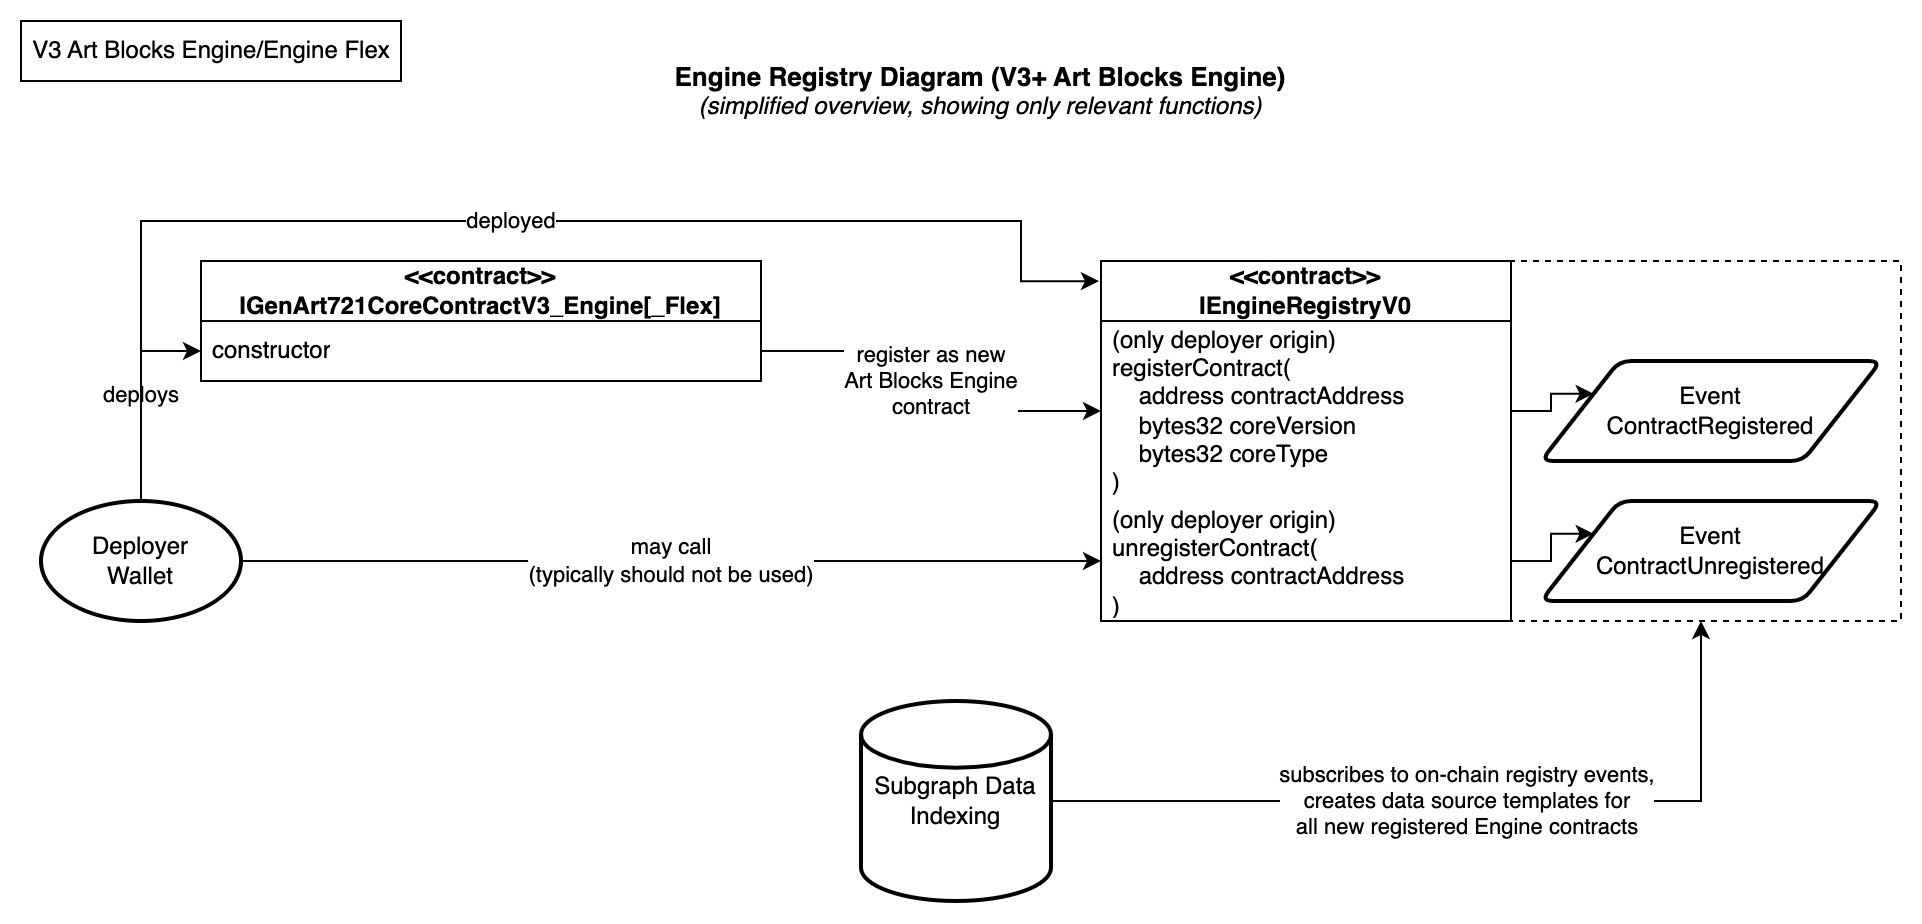
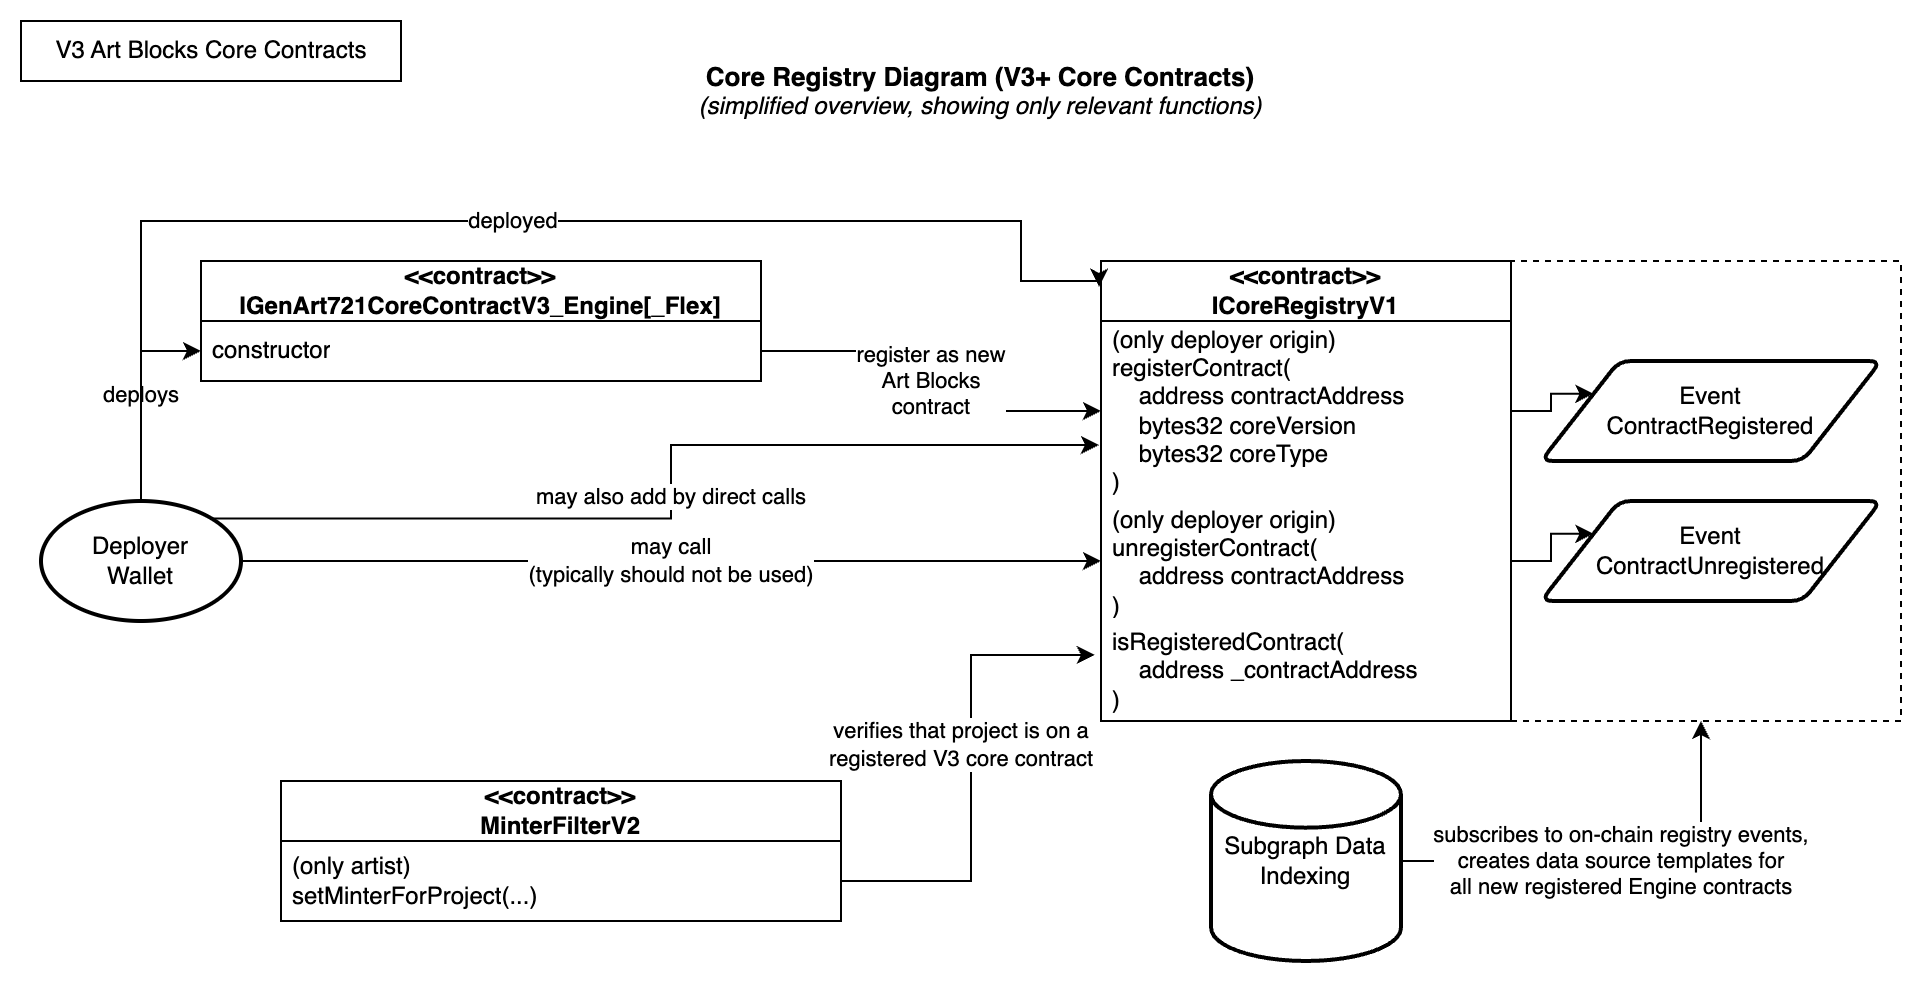
update documentation with new shared minter suite updates

diff --git a/packages/contracts/MINTER_SUITE.md b/packages/contracts/MINTER_SUITE.md
@@ -2,22 +2,26 @@
 
 ## Overview
 
-The Art Blocks Minter Suite is a collection of smart contracts that enable Artists (using V3 core contracts) to distribute tokens from their projects to collectors.
+The Art Blocks Minter Suite is a collection of smart contracts that enable Artists using V3 core contracts to distribute tokens from their projects to collectors.
 
 A diagram of the the Minter Suite is shown below:
 
-![minter-suite-diagram](./images/minter-suite-v1.png)
+![minter-suite-diagram](./images/minter-suite-v2.png)
+
+> note: The diagram above describes the Art Blocks Shared Minter Suite. The previous version of the non-shared minter suite is not shown.
 
 ## MinterFilter Suite Compatibility Chart
 
 The following table shows which Minters and MinterFilters are compatible with different Art Blocks and Art Blocks Engine Core contracts.
 
-| Core Contract Version                          | Minter Filter  | Recommended Minters                                                                                                                        |
-| :--------------------------------------------- | :------------- | :----------------------------------------------------------------------------------------------------------------------------------------- |
-| V1, V1_PRTNR                                   | MinterFilterV0 | MinterSetPriceV1<br>MinterSetPriceERC20V1<br>MinterDAExpV1<br>MinterDALinV1<br>MinterMerkleV0<br>MinterHolderV0                            |
-| V2 (PBAB)                                      | -              | (various PBAB minters)                                                                                                                     |
-| V3, V3_Explorations, V3_Engine, V3_Engine_Flex | MinterFilterV1 | MinterSetPriceV4<br>MinterSetPriceERC20V4<br>MinterMerkleV5<br>MinterHolderV4<br>MinterDALinV4<br>MinterDAExpV4<br>MinterDAExpSettlementV2 |
-| V3_Engine, V3_Engine_Flex                      | MinterFilterV1 | MinterPolyptychV0                                                                                                                          |
+| Core Contract Version                          | Minter Filter  | Recommended Minters                                                                                                                                        |
+| :--------------------------------------------- | :------------- | :--------------------------------------------------------------------------------------------------------------------------------------------------------- |
+| V1, V1_PRTNR                                   | MinterFilterV0 | MinterSetPriceV1<br>MinterSetPriceERC20V1<br>MinterDAExpV1<br>MinterDALinV1<br>MinterMerkleV0<br>MinterHolderV0                                            |
+| V2 (PBAB)                                      | -              | (various PBAB minters)                                                                                                                                     |
+| V3, V3_Explorations, V3_Engine, V3_Engine_Flex | MinterFilterV2 | MinterSetPriceV5<br>MinterSetPriceERC20V5<br>MinterSetPriceMerkleV5<br>MinterSetPriceHolderV4<br>MinterDALinV5<br>MinterDAExpV5<br>MinterDAExpSettlementV3 |
+| V3_Engine, V3_Engine_Flex                      | MinterFilterV2 | MinterSetPricePolyptychV5                                                                                                                                  |
+
+> note: MinterFilterV1 is also compatible with V3 core contracts, but it is recommended to migrate to MinterFilterV2 to enable additional functionality and indexing.
 
 ## Flagship
 
@@ -28,62 +32,40 @@ These are the smart contracts that receive funds, and split them between the art
 #### MinterSetPrice (Set Price)
 
 - V0 (deprecated): [0x1DEC9E52f1320F7Deb29cBCd7B7d67f3dF785142](https://etherscan.io/address/0x1DEC9E52f1320F7Deb29cBCd7B7d67f3dF785142#code)
-- V1: [0x934cdc04C434b8dBf3E1265F4f198D70566f7355](https://etherscan.io/address/0x934cdc04C434b8dBf3E1265F4f198D70566f7355#code)
-- V2: [0x7B7917e083CeA6d9f6a3060a7330c1072fcb4e40](https://etherscan.io/address/0x7B7917e083CeA6d9f6a3060a7330c1072fcb4e40#code)
-- V3: N/A, never used in prod.
-- V4: [0x234B25288011081817B5cC199C3754269cCb76D2](https://etherscan.io/address/0x234B25288011081817B5cC199C3754269cCb76D2#code)
+- V5: TBD
 
 #### MinterSetPriceERC20 (Set Price with ERC20)
 
 - V0 (deprecated): [0x48742D38a0809135EFd643c1150BfC13768C3907](https://etherscan.io/address/0x48742D38a0809135EFd643c1150BfC13768C3907#code)
-- V1: [0x0BbB93c5d118D1dee49e96BCAdc161403f4F8612](https://etherscan.io/address/0x0BbB93c5d118D1dee49e96BCAdc161403f4F8612#code)
-- V2: [0xe4c6EeF13649e9C4Ad8ae8A9C7fA9A7F26B4287a](https://etherscan.io/address/0xe4c6EeF13649e9C4Ad8ae8A9C7fA9A7F26B4287a#code)
-- V3: N/A, never used in prod.
-- V4: [0x9fEcd2FbC6D890fB93632DcE9b1a01c4090A7E2d](https://etherscan.io/address/0x9fEcd2FbC6D890fB93632DcE9b1a01c4090A7E2d#code)
+- V5: TBD
 
 #### MinterDALin (Linear Dutch Auction)
 
 - V0 (deprecated): [0xd219f61Bb5A3ffDeCB4362610977F1dAB3930eE2](https://etherscan.io/address/0xd219f61Bb5A3ffDeCB4362610977F1dAB3930eE2#code)
-- V1: [0x32710950B014c2D29EA24f480Dd02c7e4610663b](https://etherscan.io/address/0x32710950B014c2D29EA24f480Dd02c7e4610663b#code)
-- V2: [0xdaa6D1e224f4B9f7c4f1368C362C4333A8e385A6](https://etherscan.io/address/0xdaa6D1e224f4B9f7c4f1368C362C4333A8e385A6#code)
-- V3: N/A, never used in prod.
-- V4: [0x419501DD208BFf237e3E32C40D074065e12DfF4d](https://etherscan.io/address/0x419501DD208BFf237e3E32C40D074065e12DfF4d#code)
+- V5: TBD
 
 #### MinterDAExp (Exponential Decay Dutch Auction)
 
 - V0 (deprecated): [0xFc74fD0f2c7EaD04f1E5E9fd82Aef55620710D7C](https://etherscan.io/address/0xFc74fD0f2c7EaD04f1E5E9fd82Aef55620710D7C#code)
-- V1: [0xD94C7060808f3c876824E57e685702f3834D2e13](https://etherscan.io/address/0xD94C7060808f3c876824E57e685702f3834D2e13#code)
-- V2: [0x706d6C6ef700a3c1C3a727f0c46492492E0A72b5](https://etherscan.io/address/0x706d6C6ef700a3c1C3a727f0c46492492E0A72b5#code)
-- V3: N/A, never used in prod.
-- V4: [0x47e2df2723238f913741Cc6b1963e76fdfD19B94](https://etherscan.io/address/0x47e2df2723238f913741Cc6b1963e76fdfD19B94#code)
+- V5: TBD
 
 #### MinterDAExpSettlement (Expotential Decay Last Price Dutch Auction)
 
-- V0: N/A, never used in prod.
-- V1: [0xfdE58c821D1c226b4a45c22904de20b114EDe7E7](https://etherscan.io/address/0xfdE58c821D1c226b4a45c22904de20b114EDe7E7#code)
+- V2: TBD
 
 #### MinterMerkle (Address Allowlist)
 
-- V0: N/A, never used in prod.
-- V1: [0xae5A48D22Cd069c4d72dDe204A7fB4B302e614af](https://etherscan.io/address/0xae5A48D22Cd069c4d72dDe204A7fB4B302e614af)
-- V2: [0x6Ff3c104Ca9b4860D27079aFfF18701c4A532A4d](https://etherscan.io/address/0x6Ff3c104Ca9b4860D27079aFfF18701c4A532A4d)
-- V3: N/A, never used in prod.
-- V4: N/A, never used in prod.
-- V5: [0xB8Bd1D2836C466DB149f665F777928bEE267304d](https://etherscan.io/address/0xB8Bd1D2836C466DB149f665F777928bEE267304d#code)
+- V5: TBD
 
 #### Minter Holder (Token Holder)
 
-- V0: N/A, never used in prod.
-- V1: [0xa198E22C32879f4214a37eB3051525bD9aff9145](https://etherscan.io/address/0xa198E22C32879f4214a37eB3051525bD9aff9145)
-- V2: N/A, never used in prod.
-- V3: N/A, never used in prod.
-- V4: [0xCCFF562017bdAAa064184b3Eb9bd892d8Acce7d6](https://etherscan.io/address/0xCCFF562017bdAAa064184b3Eb9bd892d8Acce7d6#code)
+- V5: TBD
 
 ### Other Flagship Minter Contracts
 
 MinterFilterV0 for flagship V1 core: [0x4aafCE293b9B0faD169c78049A81e400f518E199](https://etherscan.io/address/0x4aafCE293b9B0faD169c78049A81e400f518E199#code).
 
-MinterFilterV1 for flagship V3 core: [0x092B8F64e713d66b38522978BCf4649db14b931E](https://etherscan.io/address/0x092B8F64e713d66b38522978BCf4649db14b931E).
+MinterFilterV1 for flagship V3 core: TBD
 
 Legacy minting contract for flagship V0 core: [0x47e312d99c09ce61a866c83cbbbbed5a4b9d33e7](https://etherscan.io/address/0x47e312d99c09ce61a866c83cbbbbed5a4b9d33e7).
 
@@ -91,4 +73,4 @@ Legacy minting contract for flagship V0 core: [0x47e312d99c09ce61a866c83cbbbbed5
 
 ### Engine Minter Contracts
 
-For deployed Art Blocks Engine minter contracts, see the minters included in each partner's deployment details in the `/deployments/engine/[V2|V3]/<engine-partner>/` directories.
+We encourage our Engine partners with V3 core contracts to migrate to use the shared minter suite, which uses the same minters as the Art Blocks flagship contract. However, some partners may choose to continue to use their existing minters or custom minters outside of the shared minter suite. In that case, see the minters included in each partner's deployment details in the `/deployments/engine/[V2|V3]/<engine-partner>/` directories.

diff --git a/packages/contracts/README.md b/packages/contracts/README.md
@@ -74,14 +74,20 @@ erDiagram
     MINTERFILTER ||--o{ MINTER_1 : uses
     MINTERFILTER ||--o{ MINTER_2 : uses
     MINTERFILTER ||--o{ MINTER_N : uses
-    MINTER_1 ||--|| I_FILTERED_MINTER : implements
-    MINTER_2 ||--|| I_FILTERED_MINTER : implements
-    MINTER_N ||--|| I_FILTERED_MINTER : implements
+    MINTER_1 ||--|| I_SHARED_MINTER : implements
+    MINTER_2 ||--|| I_SHARED_MINTER : implements
+    MINTER_N ||--|| I_SHARED_MINTER : implements
     RANDOMIZER ||--|| CORE_V3_V3_FLEX : provides_random
     ENGINE_REGISTRY ||--o{ CORE_V3_V3_FLEX : notifies
 ```
 
 For a more detailed overview of this architecture, please see the [V3 Contract Architecture page](./V3_ARCHITECTURE.md).
+
+## Minter Suite
+
+Art Blocks has developed a shared Minter Suite that is used to mint tokens for all Art Blocks Engine V3 tokens. The Minter Suite is designed to be highly flexible, and can be used to mint tokens in a variety of ways on any V3 Flagship or Art Blocks Engine contract.
+
+For details on the Art Blocks Shared Minter Suite, see the [minter suite documenation](./MINTER_SUITE.md).
 
 # Deployments
 
@@ -89,7 +95,7 @@ For a more detailed overview of this architecture, please see the [V3 Contract A
 
 > IMPORTANT - many scripts rely on typechain-generated factories, so ensure you have run `yarn generate:typechain` before running any deployment scripts.
 
-We have two types of deployment scripts: Generic and Specific.
+We have two types of deployment scripts: Generic and Specific. In general, most new deployments now use generic scripts.
 
 Generic deployment scripts are located in the `./scripts` directory. These scripts are used to deploy contracts that are not specific to a particular deployment. Generic deployment scripts are used to deploy contracts that are used by multiple partners or core contracts, such as the `Art Blocks Engine` contracts, or minters. Generic scripts take an input json file, located in the `/deployents/` directory, and execute the deployment as defined in the input file. In general, there are scripts prepared to run generic deployments for all networks and environments. For example, the following can be used to deploy the `Art Blocks Engine` contracts to the `goerli` test network (note that an input configuration is also required for all generic deployments.):
 
@@ -115,13 +121,14 @@ This is the Smart contract that controls the artwork created by the artist. No f
 
 Core contracts use the versioning schema below:
 
-|        Description        | Version  | Project Range | Mainnet Address                                                                                                                                                                                              |
-| :-----------------------: | :------: | :-----------: | :----------------------------------------------------------------------------------------------------------------------------------------------------------------------------------------------------------- |
-|        AB Core V0         |    V0    |      0-2      | `0x059EDD72Cd353dF5106D2B9cC5ab83a52287aC3a`                                                                                                                                                                 |
-|        AB Core V1         |    V1    |     3-373     | `0xa7d8d9ef8D8Ce8992Df33D8b8CF4Aebabd5bD270`                                                                                                                                                                 |
-|     Engine Cores (V2)     | V2_PBAB  |   All PBAB    | Various - see `deployments/engine/` directory [DEPLOYMENTS.md files](https://github.com/search?q=repo%3AArtBlocks%2Fartblocks-contracts+extension%3Amd+filename%3ADEPLOYMENTS&type=Code&ref=advsearch&l=&l=) |
-| Engine Partner Cores (V2) | V2_PRTNR |   All PRTNR   | Various - see `deployments/engine/` directory [DEPLOYMENTS.md files](https://github.com/search?q=repo%3AArtBlocks%2Fartblocks-contracts+extension%3Amd+filename%3ADEPLOYMENTS&type=Code&ref=advsearch&l=&l=) |
-|   AB Core V3 (current)    |    V3    |     374+      | `0x99a9B7c1116f9ceEB1652de04d5969CcE509B069`                                                                                                                                                                 |
+|        Description        |          Version          | Project Range | Mainnet Address                                                                                                                                                                                                  |
+| :-----------------------: | :-----------------------: | :-----------: | :--------------------------------------------------------------------------------------------------------------------------------------------------------------------------------------------------------------- |
+|        AB Core V0         |            V0             |      0-2      | `0x059EDD72Cd353dF5106D2B9cC5ab83a52287aC3a`                                                                                                                                                                     |
+|        AB Core V1         |            V1             |     3-373     | `0xa7d8d9ef8D8Ce8992Df33D8b8CF4Aebabd5bD270`                                                                                                                                                                     |
+|     Engine Cores (V2)     |          V2_PBAB          | All V2 Engine | Various - see `deployments/engine/` directory [DEPLOYMENTS.md files](https://github.com/search?q=repo%3Aartblocks%2Fartblocks-contracts+path%3A*.md+path%3A**%2FDEPLOYMENTS.md&type=Code&ref=advsearch&l=&l=)    |
+| Engine Partner Cores (V2) |         V2_PRTNR          | All V2 PRTNR  | Various - see `deployments/engine/` directory [DEPLOYMENTS.md files](https://github.com/search?q=repo%3Aartblocks%2Fartblocks-contracts+path%3A*.md+path%3A**%2FDEPLOYMENTS.md&type=Code&ref=advsearch&l=&l=)    |
+|   AB Core V3 (current)    |            V3             |     374+      | `0x99a9B7c1116f9ceEB1652de04d5969CcE509B069`                                                                                                                                                                     |
+| Engine_V3, Engine_V3_Flex | Engine_V3, Engine_V3_Flex | All V3 Engine | Various - see `deployments/engine/V3/` directory [DEPLOYMENTS.md](https://github.com/search?q=repo%3Aartblocks%2Fartblocks-contracts+path%3A*.md+path%3A**%2FDEPLOYMENTS.md&type=Code&ref=advsearch&l=&l=) files |
 
 > AB Core V3 [changelog here](./contracts/V3_CHANGELOG.md), and [performance metrics here](./contracts/V3_PERFORMANCE.md).
 
@@ -153,17 +160,18 @@ Given that it is an externally linked library with a shared public deployment, t
 - V1 `BytecodeStorageReader` (arbitrum-goerli): https://goerli.arbiscan.io/address/0x681861cD4fC92d70aE57745385065ef862954662#code
 - V1 `BytecodeStorageReader` (arbitrum): https://arbiscan.io/address/0xa07f47c30C262adcC263A4D44595972c50e04db7#code
 
-## Minter Suite
-
-For details on the Flagship and Engine Minter Suite, see the [minter suite documenation](./MINTER_SUITE.md).
-
 ## Shared Randomizers
 
-- Goerli: https://goerli.etherscan.io/address/0xec5dae4b11213290b2dbe5295093f75920bd2982#code
-- Ropsten: https://ropsten.etherscan.io/address/0x7ba972189ED3C527847170453fC108707F62755a#code
-- Rinkeby: https://rinkeby.etherscan.io/address/0x3b30d421a6dA95694EaaE09971424F15Eb375269#code
-- Kovan: https://kovan.etherscan.io/address/0x3b30d421a6dA95694EaaE09971424F15Eb375269#code
-- Mainnet: https://etherscan.io/address/0x088098f7438773182b703625c4128aff85fcffc4#code
+Art Blocks has developed a shared Randomizer contract that is used to generate pseudo-random numbers for all Art Blocks Engine V3 tokens. The Randomizer contract is designed to handle all globally approved shared minters, including minters that may assign token hashes directly such as the Polyptych minter.
+
+The most recent version of the Shared Randomizer contract is deployed at the following addresses:
+
+- Goerli: TBD
+- Mainnet: TBD
+- Arbitrum Goerli: TBD
+- Arbitrum: TBD
+
+> Note: Previous versions of the Randomizer contract are recorded on each V3 core contract itself, able to be queried via the `getHistoricalRandomizerAt()` function.
 
 ## Contract Source Code Verification
 

diff --git a/packages/contracts/V3_ARCHITECTURE.md b/packages/contracts/V3_ARCHITECTURE.md
@@ -12,7 +12,7 @@ The V3 core contract integrates with a few peripheral contracts to offer flexibl
 
 - [Admin Access Control List (ACL) contract](#admin-access-control-list-acl-contract)
 - [Randomizer contract](#randomizer-contract)
-- [Engine Registry contract](#engine-registry-contract)
+- [Core Registry contract](#core-registry-contract)
 - [Minter Suite contracts](#minter-suite-contracts)
 - [Royalty Registry contract (by Manifold)](./ROYALTIES.md)
 
@@ -34,15 +34,20 @@ A diagram of the V3 core contract and Admin ACL contract integration is shown be
 
 The Randomizer contract is used to generate pseudo random numbers for the V3 core contract, when new tokens are minted. This architecture is designed to be highly flexible, enabling designs that may desire to use asynchrounous random number generation or other hash generation methods (such as our Polyptych Randomizer contract).
 
+A shared randomizer was developed as part of our shared minter suite development, and may be used to generate random numbers for all V3 tokens. The randomizer is designed to handle all globally approved shared minters, including minters that may assign token hashes directly such as the Polyptych minter.
+
 A diagram of the V3 core contract and Randomizer contract integration is shown below:
 
 ![randomizer-diagram](./images/randomizer-v3-core-integration.png)
 
-### Engine Registry contract
+### Core Registry contract
 
-The Engine Registry contract notifies our subgraph indexing service of new Art Blocks Engine tokens. When the Engine Registry emits an event, the subgraph indexing service is notified and the Engine contract is indexed and made available for querying on the Art Blocks subgraph.
+The Core Registry contract performs two functions:
 
-A diagram of the V3 core contract and Engine Registry contract integration is shown below:
+1. Notifies our subgraph indexing service of newly deployed Art Blocks Engine contracts. When the Core Registry emits an event, the subgraph indexing service is notified and the Engine contract is indexed and made available for querying on the Art Blocks subgraph.
+2. Provides an on-chain registry of all V3 Art Blocks core contracts. This registry is used by the shared minter filter contract to validate that a given project is on a valid and approved Art Blocks V3 Core contract, approved for use on the Art Blocks platform. This is primarily done to prevent phishing attacks, limiting shared minters to only minting tokens on approved Art Blocks V3 Core contracts.
+
+A diagram of the V3 core contract and Core Registry contract integration is shown below:
 
 ![engine-registry-diagram](./images/engine-registry-v3-core-integration.png)
 